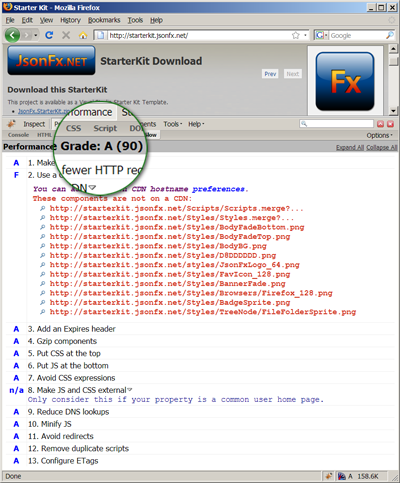
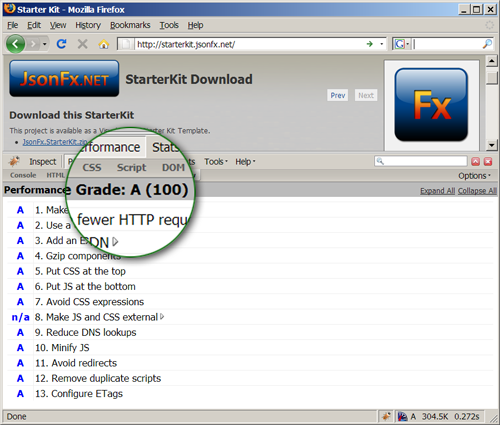
- Performance slide content

diff --git a/trunk/StarterKit/Website/Scripts/Controller.js b/trunk/StarterKit/Website/Scripts/Controller.js
@@ -24,7 +24,7 @@ Example.slides = [
 	{ name: "Intro", title: "Hello World!", jbst: Example.introSlide },
 	{ name: "Templates", title: "JsonML + Browser-Side Templating", jbst: Example.jbstSlide },
 	{ name: "Services", title: "Ajax Services", jbst: Example.servicesSlide },
-	{ name: "Merging", title: "Resource Merging", jbst: Example.mergeSlide },
+	{ name: "Performance", title: "Performance Optimizations", jbst: Example.mergeSlide },
 	{ name: "CssUserAgent", title: "UserAgent-Specific CSS", jbst: Example.userAgentSlide },
 	{ name: "Behaviors", title: "JavaScript Behavior Bindings", jbst: Example.behaviorSlide },
 	{ name: "i18n/L10n", title: "Client-Side Globalization", jbst: Example.globalizationSlide },

diff --git a/trunk/StarterKit/Website/Styles/Elements.css b/trunk/StarterKit/Website/Styles/Elements.css
@@ -149,6 +149,12 @@ ul.BullettedList
 	list-style-type: disc;
 }
 
+.FinePrint
+{
+	font-size: 0.9em;
+	font-style: italic;
+}
+
 .Warning
 {
 	background-color: #FFFFEE;
